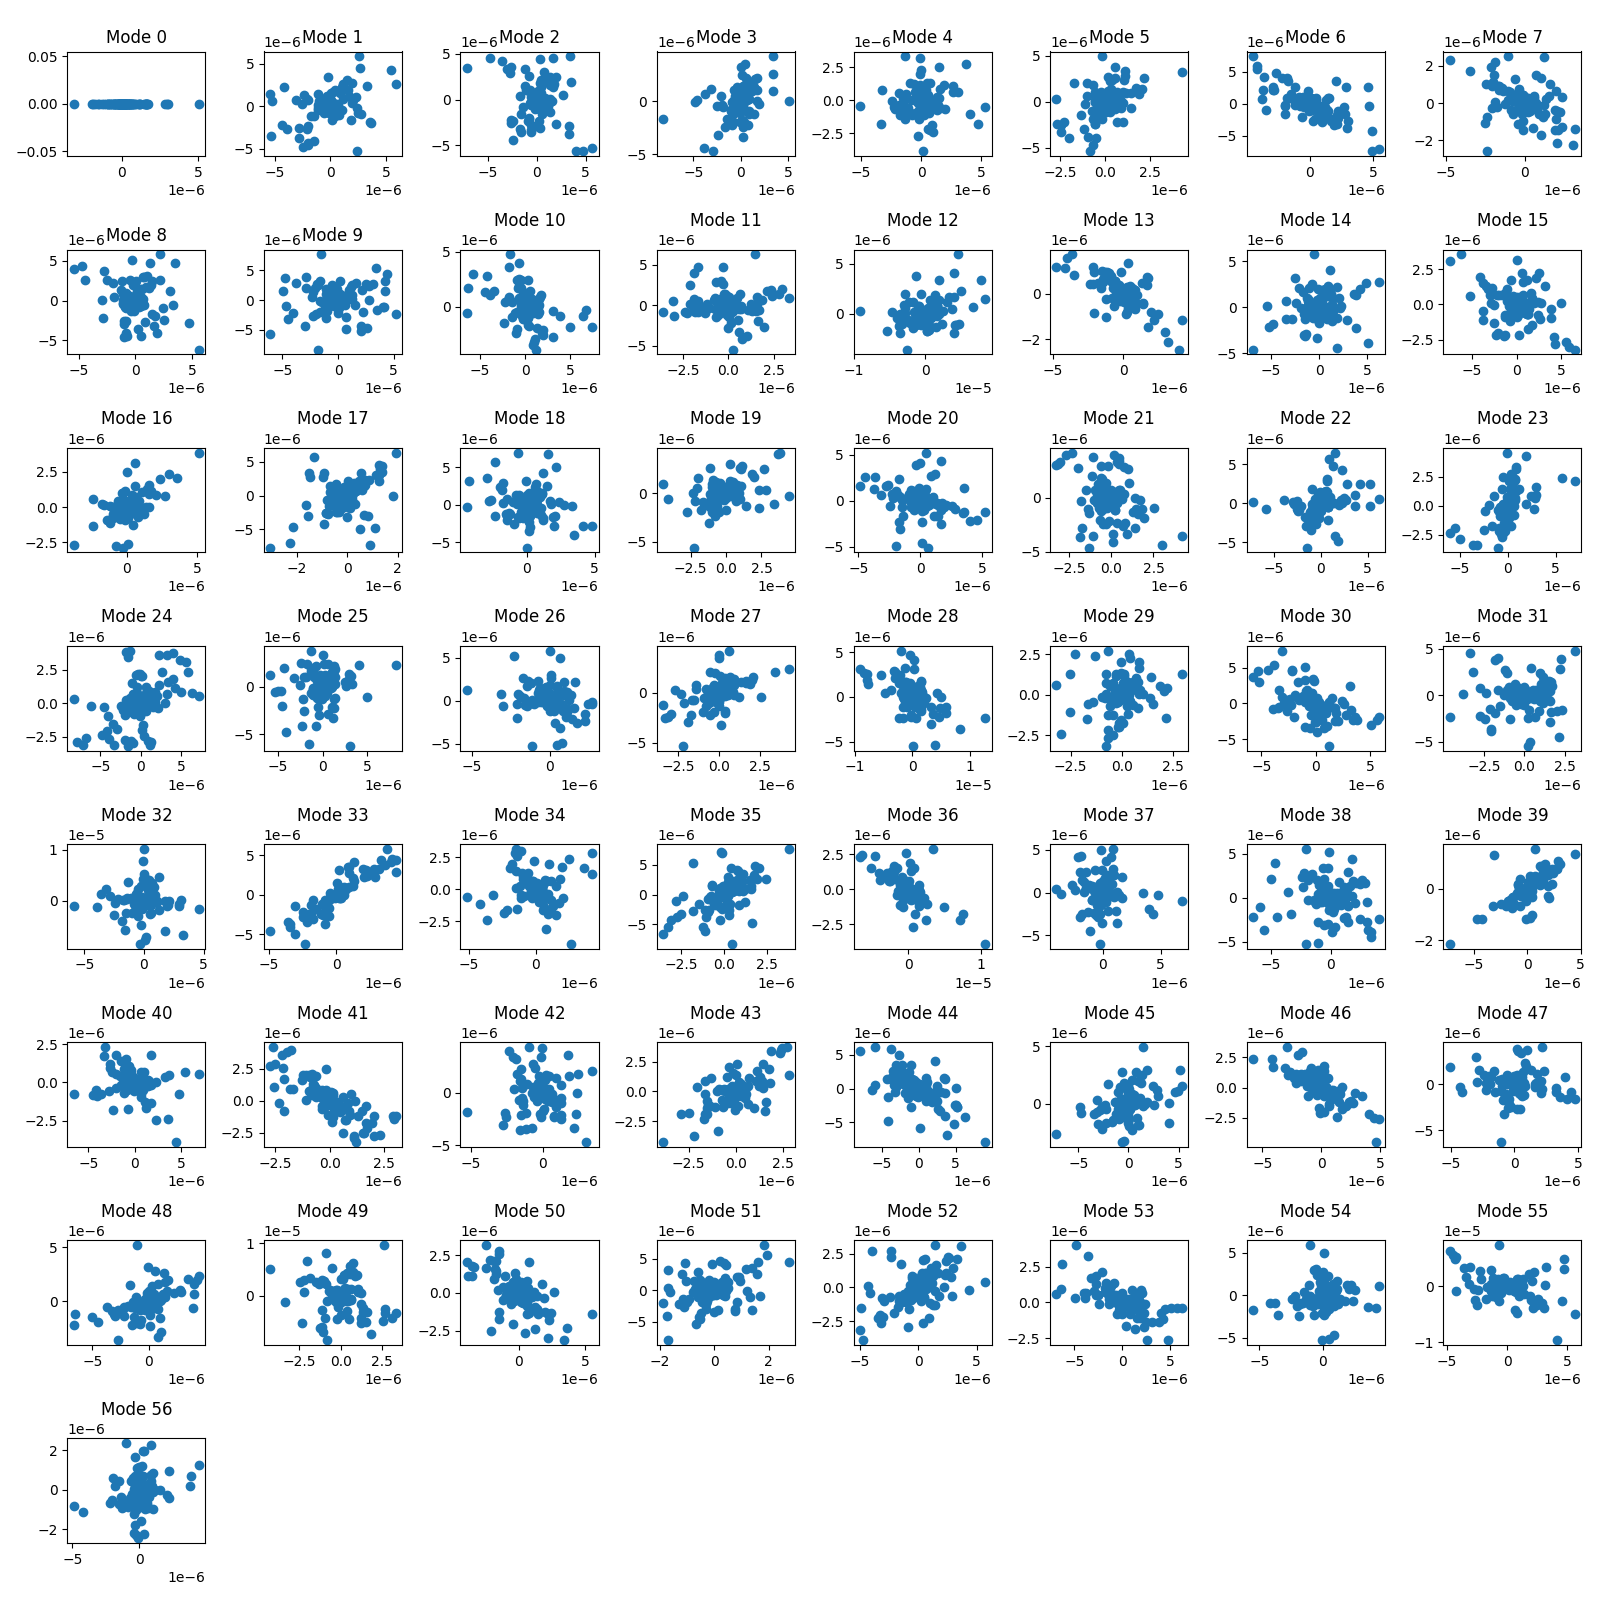
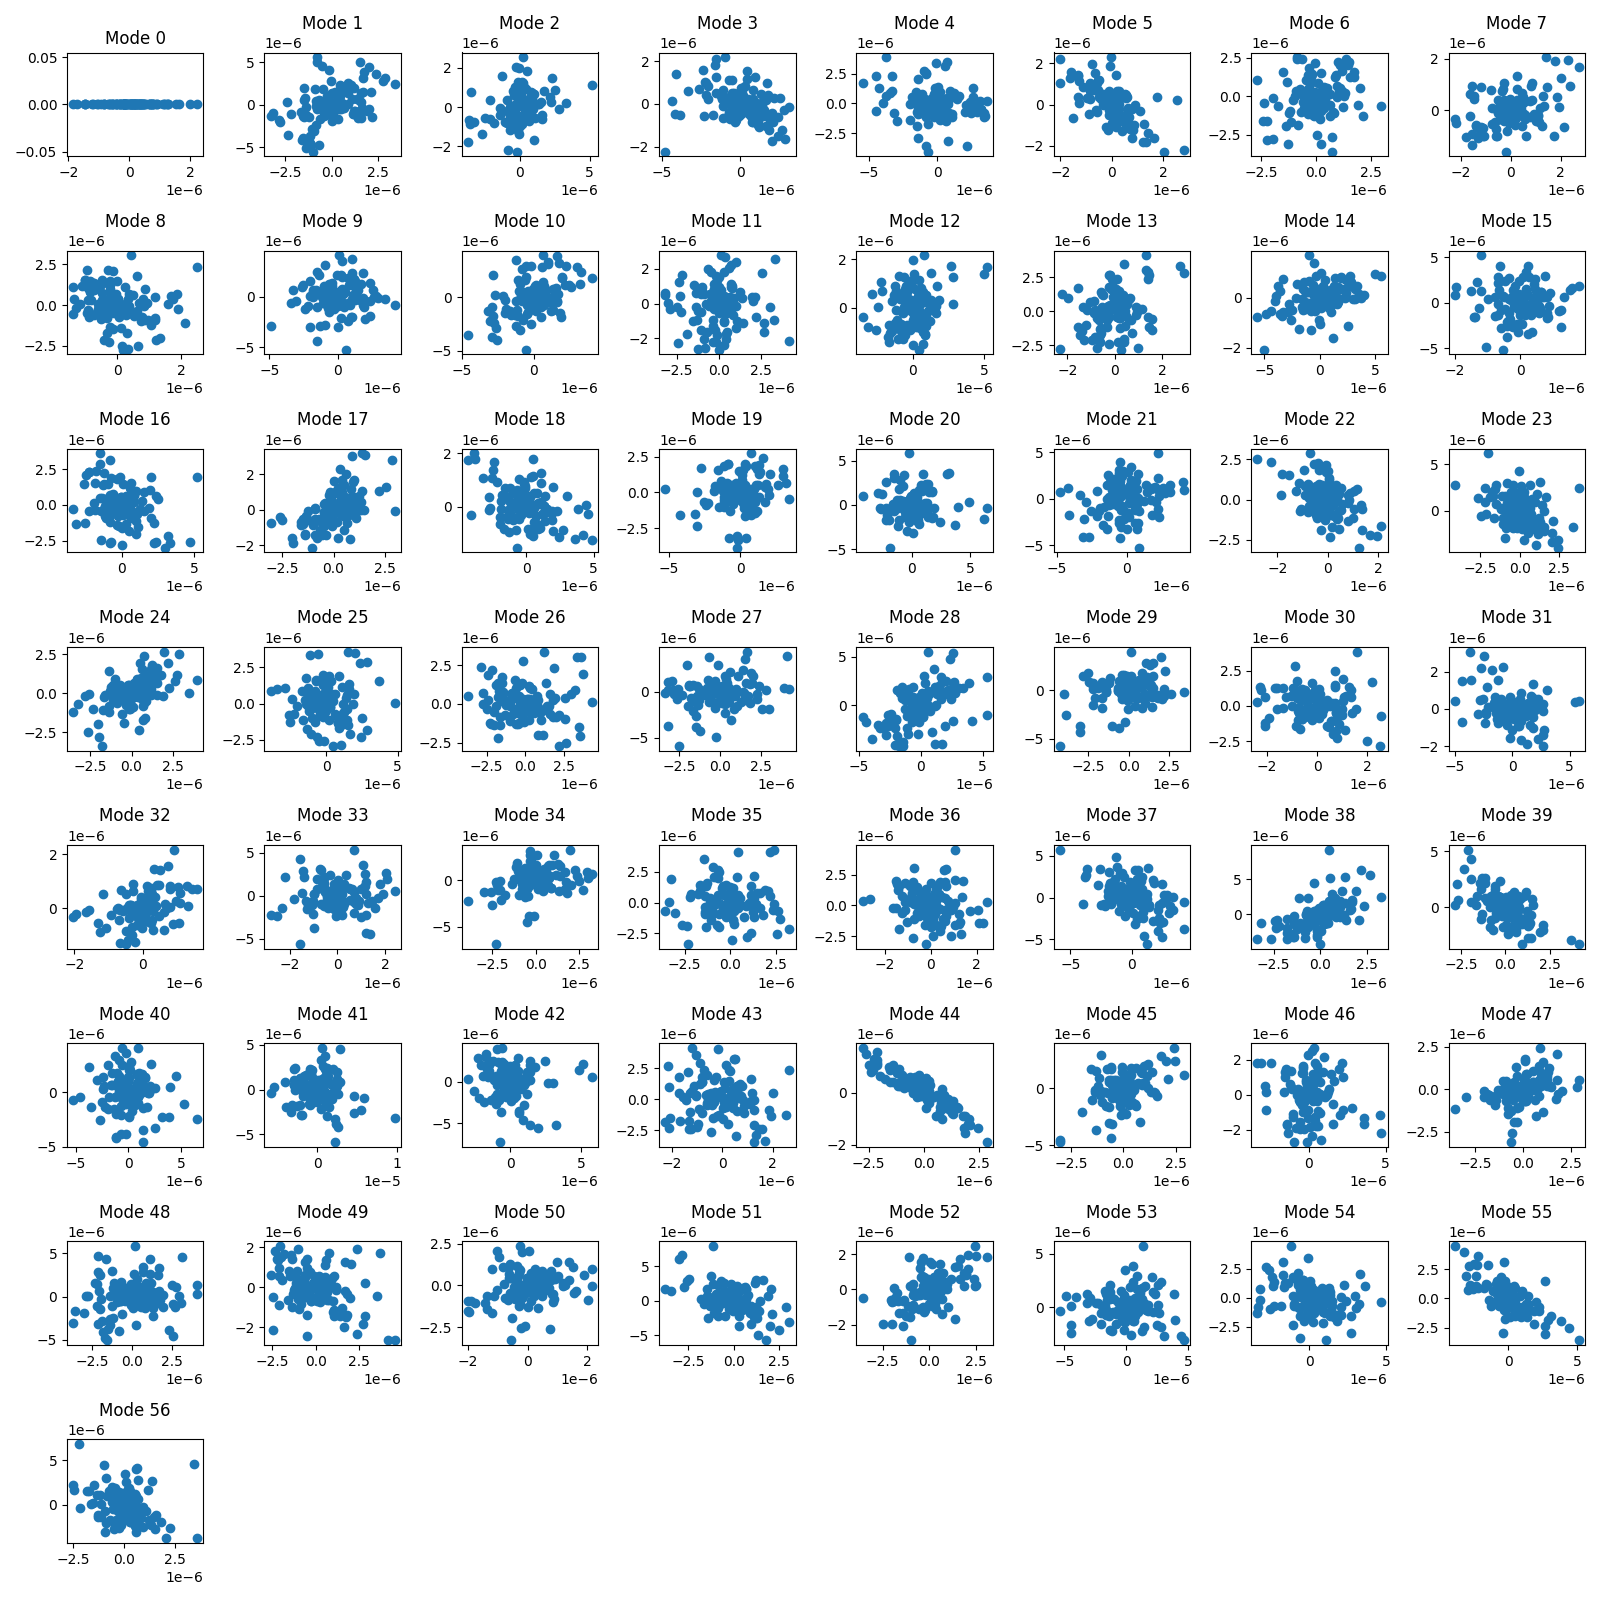
fix

diff --git a/modular_addition/mlp_modular.py b/modular_addition/mlp_modular.py
@@ -149,7 +149,7 @@ class MLP_unchunked(nn.Module):
         self.embedding = nn.Embedding(vocab_size, embed_dim)
         self.linear1 = nn.Linear(embed_dim, hidden_dim, bias=False)
         self.linear2 = nn.Linear(hidden_dim, vocab_size, bias=False)
-        self.silu = nn.SiLU()
+        self.gelu = nn.GELU()
         self.vocab_size = vocab_size
 
     def forward(self, x1, x2):
@@ -158,9 +158,8 @@ class MLP_unchunked(nn.Module):
         x1 = self.linear1(x1)
         x2 = self.linear1(x2)
         x = x1 + x2
-        x = self.silu(x)
-        x = self.linear2(x)
-        return x
+        x = self.gelu(x)
+        return self.linear2(x)
 
     def get_fourier_modes(self):
         embedding_weights = self.embedding.weight.detach().clone().cpu().to(t.cfloat)
@@ -199,20 +198,6 @@ class MLP_unchunked(nn.Module):
             plt.scatter(dot_products_cos[i].numpy(), dot_products_sin[i].numpy())
             plt.title(f"Mode {i}")
 
-        plt.tight_layout()
-        plt.savefig(filename)
-        plt.close()
-
-    def plot_fourier_modes(self, filename):
-        fourier_embedding = self.get_fourier_modes()
-        plt.clf()
-        # figsize should fit both real and imaginary parts subplots
-        plt.figure(figsize=(fourier_embedding.shape[1] * 2, fourier_embedding.shape[0]))
-        # plot real and imaginary parts separately
-        plt.subplot(1, 2, 1)
-        plt.imshow(fourier_embedding.real.cpu().numpy(), cmap="gray")
-        plt.subplot(1, 2, 2)
-        plt.imshow(fourier_embedding.imag.cpu().numpy(), cmap="gray")
         plt.tight_layout()
         plt.savefig(filename)
         plt.close()
@@ -340,6 +325,7 @@ def train(
     use_circular_embeddings=False,
     freeze_embed=False,
     use_unchunked=False,
+    lr=0.01
 ):
     if use_unchunked:
         model = MLP_unchunked(
@@ -355,7 +341,7 @@ def train(
         )
     print(f"Number of parameters: {count_parameters(model)}")
     # optimizer = t.optim.AdamW(model.parameters(), lr=0.01, weight_decay=0.0)
-    optimizer = t.optim.Adam(model.parameters(), lr=0.01, weight_decay=0.0)
+    optimizer = t.optim.Adam(model.parameters(), lr=lr, weight_decay=0.0)
     scheduler = t.optim.lr_scheduler.ExponentialLR(optimizer, gamma=1)
     criterion = nn.CrossEntropyLoss()
     epochs = num_epochs
@@ -537,56 +523,30 @@ def train_manyfractions(
 
 
 if __name__ == "__main__":
-    train_manyfractions(randomize = False, save_frames = True)
-
-    # p = 229
-    # train_frac = 0.9
-    # batch_size = 256
-    # vocab_size = p+1
-    # embed_dim = 8
-    # hidden_dim = 30
-    # use_unchunked = True
-    # randomize = False
-    # train_loader, test_loader = get_train_test_loaders(
-    #     train_frac, batch_size, vocab_size, randomize = randomize
-    # )
-    # train(
-    #     train_loader,
-    #     test_loader,
-    #     vocab_size=vocab_size,
-    #     hidden_dim=hidden_dim,
-    #     embed_dim=embed_dim,
-    #     num_epochs = 50,
-    #     save_frames=True,
-    #     reg=0,
-    #     use_circular_embeddings=False,
-    #     freeze_embed=False,
-    #     use_unchunked=True,
-    # )
-    # run_movie_cmd
-
-
-
-
-    # train_frac = 0.7
-    # batch_size = 256
-    # vocab_size = 38
-    # embed_dim = 14
-    # hidden_dim = 32
-    # use_unchunked = True
-    # train_loader, test_loader = get_train_test_loaders(
-    #     train_frac, batch_size, vocab_size
-    # )
-    # train(
-    #     train_loader,
-    #     test_loader,
-    #     vocab_size=vocab_size,
-    #     embed_dim=embed_dim,
-    #     hidden_dim=hidden_dim,
-    #     save_frames=True,
-    #     use_circular_embeddings=False,
-    #     reg=0.001,
-    #     freeze_embed=False,
-    #     use_unchunked=use_unchunked,
-    # )
+    train_frac = 0.7
+    batch_size = 256
+    vocab_size = 48
+    embed_dim = 8
+    hidden_dim = 32
+    lr = 0.01
+    epochs = 1000
+    use_unchunked = True
+    train_loader, test_loader = get_train_test_loaders(
+        train_frac, batch_size, vocab_size, randomize=False
+    )
+    model = train(
+        train_loader,
+        test_loader,
+        vocab_size=vocab_size,
+        embed_dim=embed_dim,
+        hidden_dim=hidden_dim,
+        save_frames=False,
+        use_circular_embeddings=False,
+        reg=0.0001,
+        num_epochs=epochs,
+        freeze_embed=False,
+        use_unchunked=use_unchunked,
+        lr=lr
+    )
+    model.project_to_fourier_mode("fourier_modes.png")
 

diff --git a/modular_addition/grokking_with_freezing.py b/modular_addition/grokking_with_freezing.py
@@ -149,8 +149,8 @@ def train(model,
     for epoch in range(epochs):
         model.train()
         if freeze_mlp:
-            model.linear1.requires_grad = False
-            model.linear2.requires_grad = False
+            model.linear1.weight.requires_grad = False
+            model.linear2.weight.requires_grad = False
         train_loss = 0
         for x1, x2, target in train_loader:
             x1, x2, target = x1.to(device), x2.to(device), target.to(device)
@@ -196,7 +196,7 @@ def frac_test(vocab_size, Adam = True, sequential = False, graph = False, embed_
         hidden_dim=hidden_dim,
         embed_dim=embed_dim,
         num_lin_epochs = 50000,
-        reg=0.01,
+        reg=0.00,
         save_last_frame = True,
         suffix = f"vocab_{vocab_size}_e_{embed_dim}_h_{hidden_dim}_main",
     )
@@ -204,7 +204,7 @@ def frac_test(vocab_size, Adam = True, sequential = False, graph = False, embed_
     for frac in fracs(vocab_size, num_datapoints = 8):
         train_loader, test_loader = get_train_test_loaders(vocab_size = vocab_size, train_frac = frac, batch_size = BATCH_SIZE, randomize=False, seed=SEED)
         model = copy.deepcopy(original_model)
-        model.embedding = nn.Parameter(t.randn(vocab_size, embed_dim))
+        model.embedding = nn.Embedding(vocab_size, embed_dim)
         optimizer = t.optim.Adam(model.parameters(), lr=lr)
         train(model, 
             train_loader,
